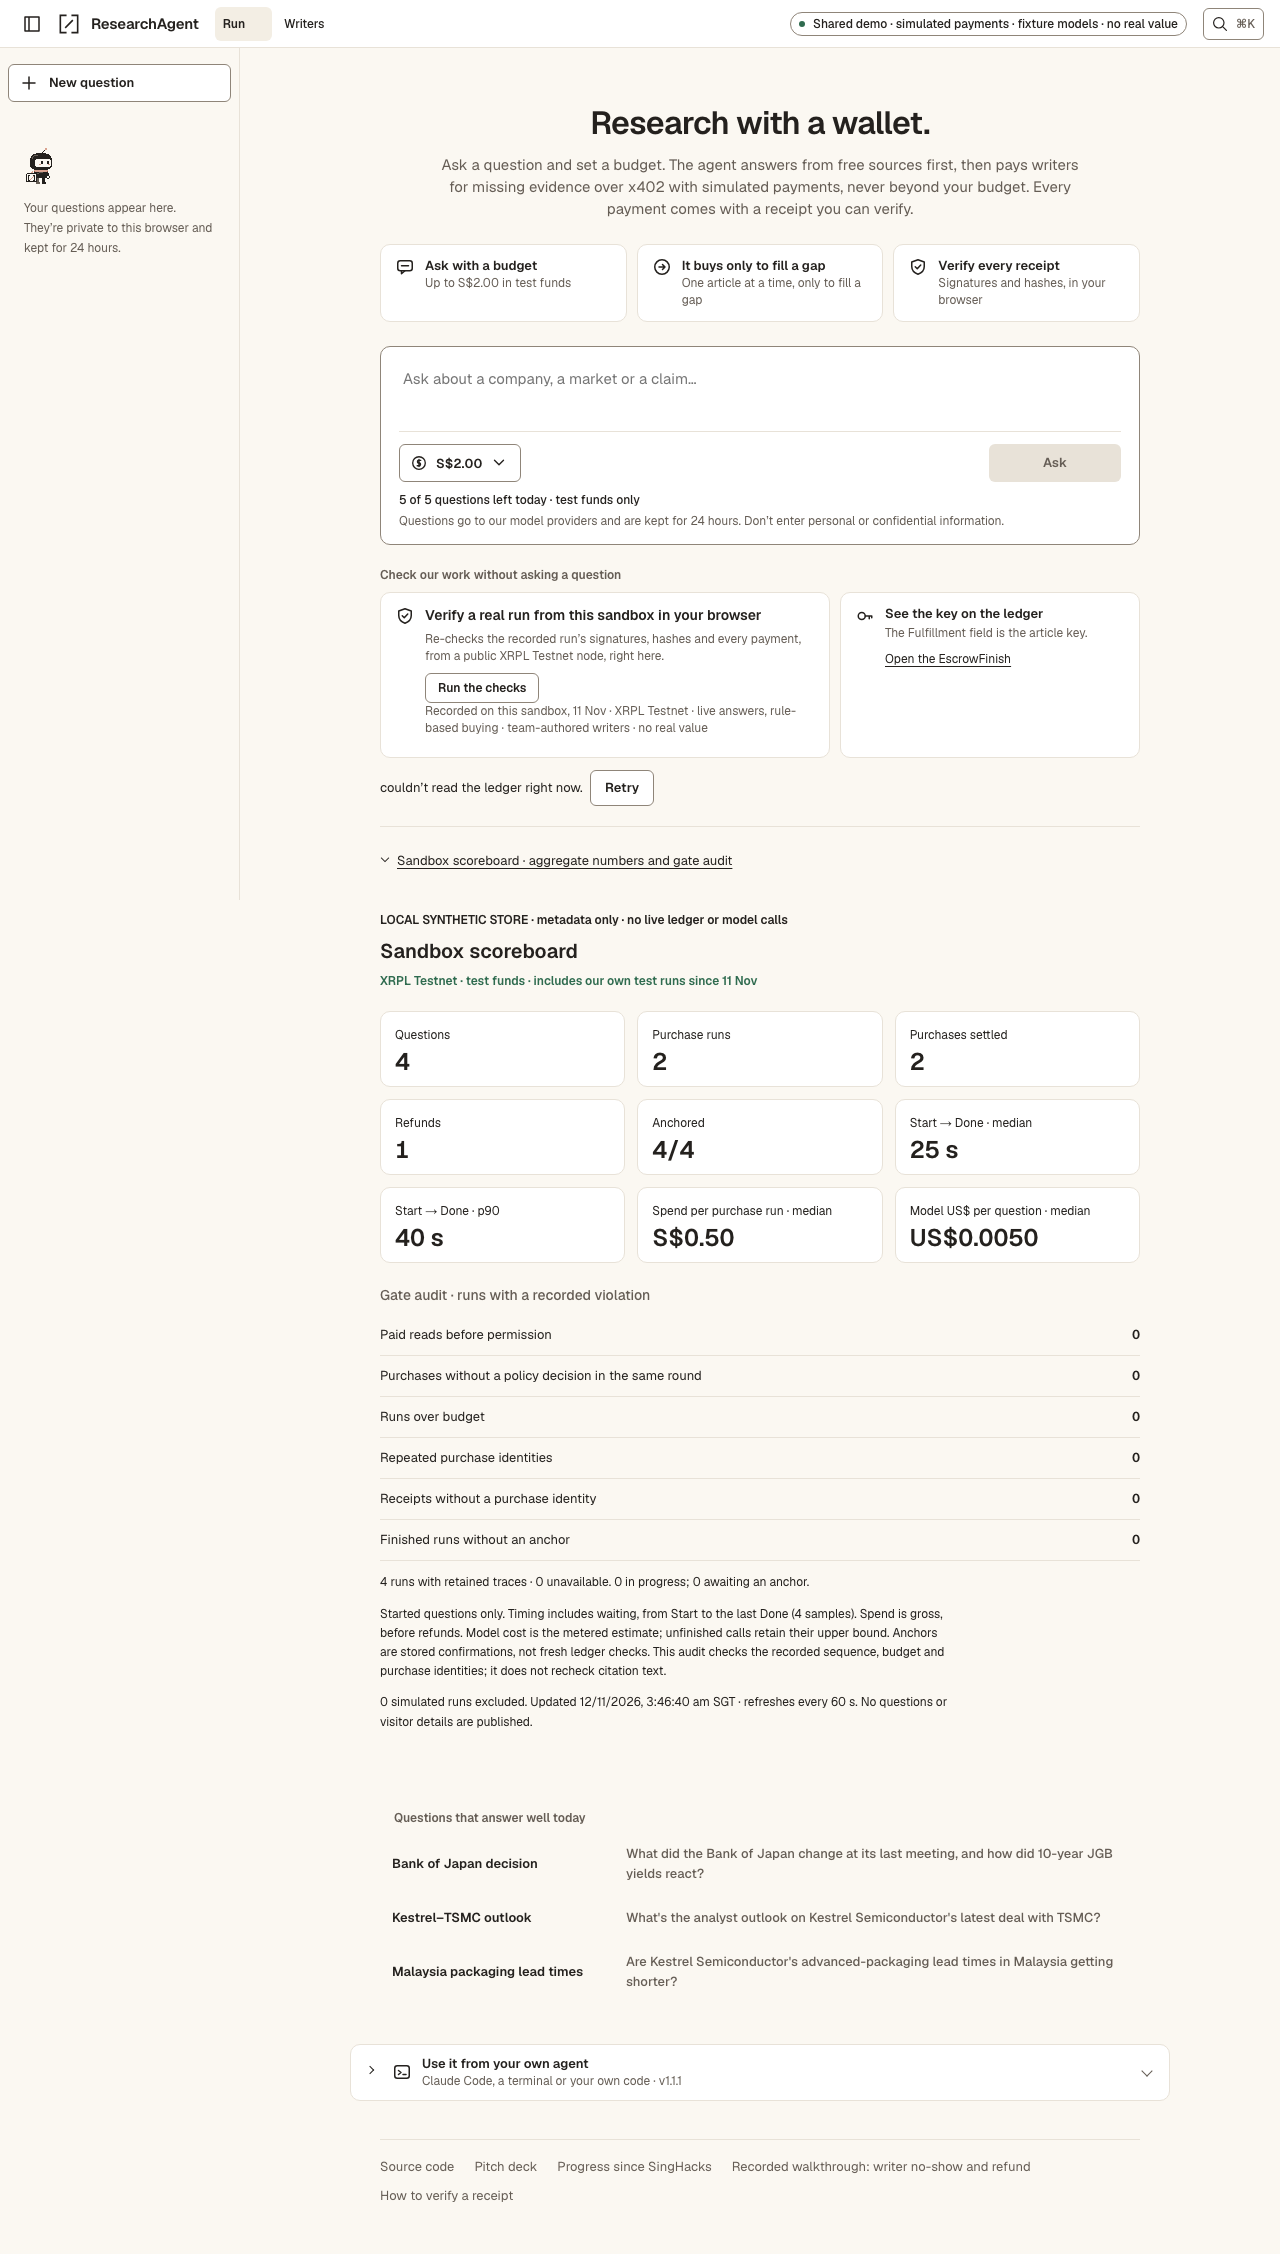
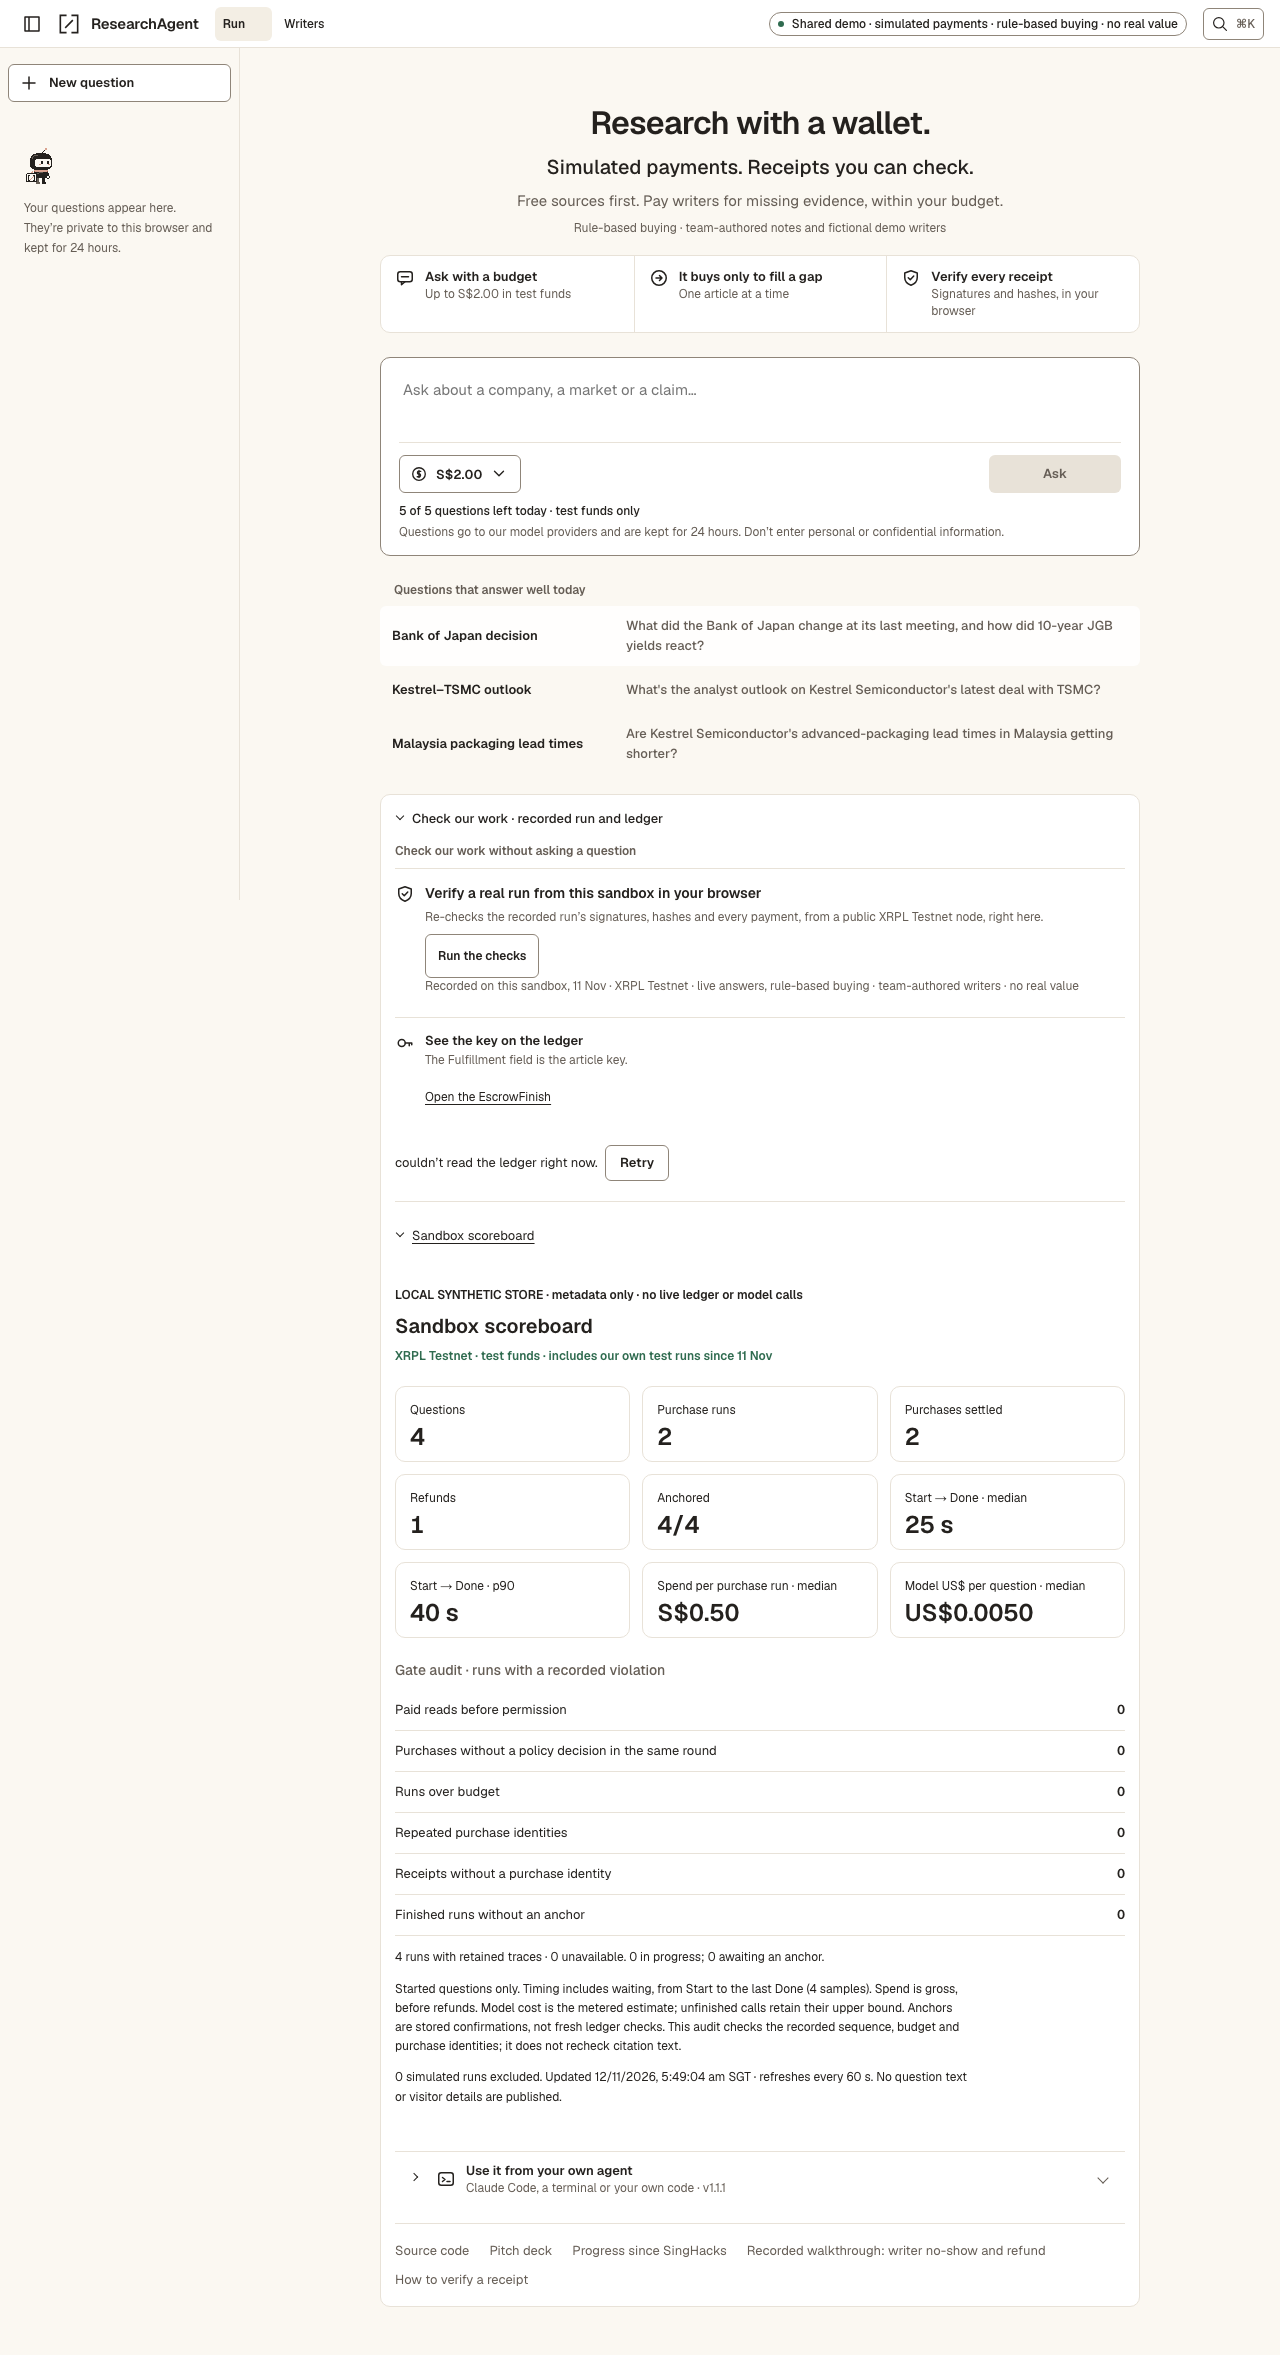
Capture complete hosted scoreboard pages at both viewport widths

diff --git a/docs/evidence/p4-scoreboard/README.md b/docs/evidence/p4-scoreboard/README.md
@@ -34,6 +34,6 @@ The load probe uses the real HOSTED=1 app, 5,000 synthetic metadata runs and 1,0
 
 Measured load and visual results are recorded in `load.json` and `layout.json`; screenshots are `scoreboard-1280.png` and `scoreboard-390.png`.
 
-Measured cached endpoint latency: p50 1.01 ms, p95 1.95 ms, p99 3.50 ms, maximum 5.92 ms; one cold refresh 89.72 ms. All 1,000 requests succeeded, and sessions, session mints and admissions remained zero. Both 1280 and 390 px checks have no horizontal overflow and zero serious/critical axe findings. Screenshots capture the full page at those viewport widths.
+Measured cached endpoint latency: p50 1.09 ms, p95 1.87 ms, p99 2.94 ms, maximum 9.50 ms; p95 including the cold request 1.90 ms across 1,001 requests; one cold refresh 88.56 ms. All 1,000 requests succeeded, and sessions, session mints and admissions remained zero. Both 1280 and 390 px checks have no horizontal overflow and zero serious/critical axe findings. Screenshots capture the full page at those viewport widths.
 
-The first clean-head gate failed the unchanged initial-JavaScript budget: 171,171 gzip bytes against the exclusive 170,000-byte limit. `bundle-regression.json` retains that miss. The panel body now loads as a separate chunk only when opened; the compact summary remains immediately available. The on-open panel is absent from the initial import closure (1,481 gzip bytes in its separate chunk), but this base still measures 170,181 gzip bytes; `bundle-lazy-regression.json` retains that preflight miss. Broader bundle reduction belongs to DEPLOY-FIX. Both earlier misses used Node 26; final acceptance and gates pin Node 22 to match deploy. The final gate must pass the same budget before shipping.
+The first clean-head gate failed the unchanged initial-JavaScript budget: 171,171 gzip bytes against the exclusive 170,000-byte limit. `bundle-regression.json` retains that miss. The panel body now loads as a separate chunk only when opened; the compact summary remains immediately available. The on-open panel is absent from the initial import closure (1,481 gzip bytes in its separate chunk), but this base still measures 170,181 gzip bytes; `bundle-lazy-regression.json` retains that preflight miss. Broader bundle reduction belongs to DEPLOY-FIX. Both earlier misses used Node 26; final acceptance and gates pin Node 22 to match deploy. Production preflight after the split records 157,801 gzip bytes against the same exclusive 170,000-byte limit. The scoreboard panel chunk is absent from the initial static-import closure. The final browser-performance gate independently enforces it before shipping.
